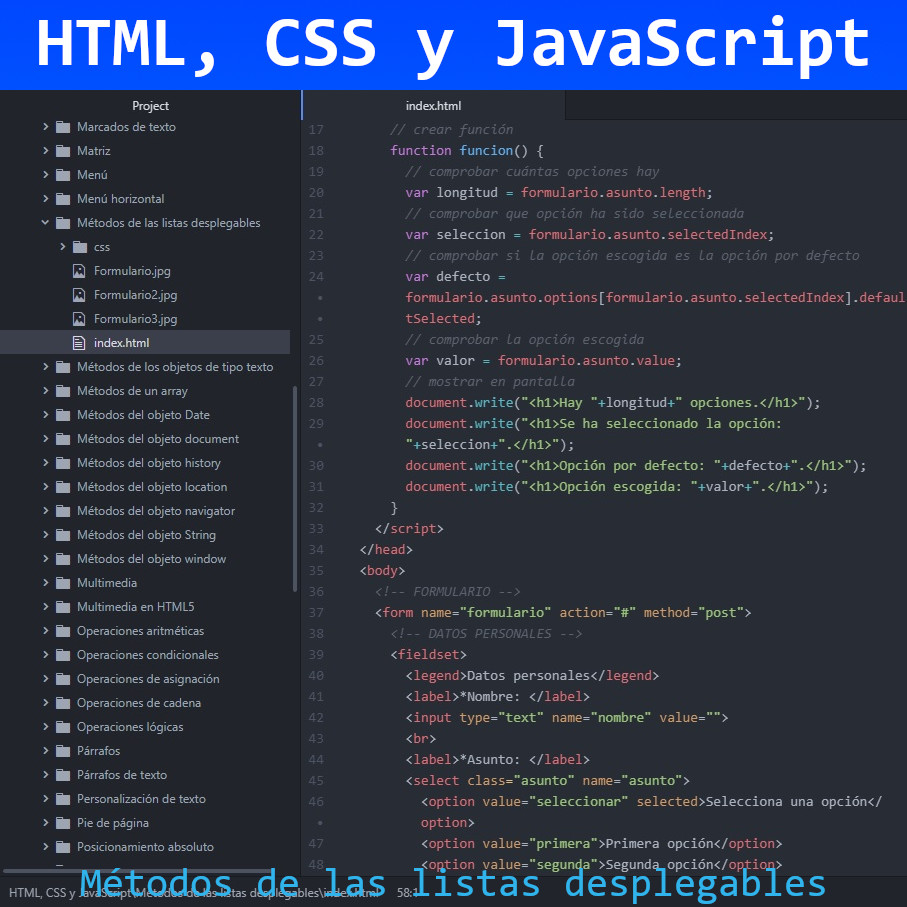
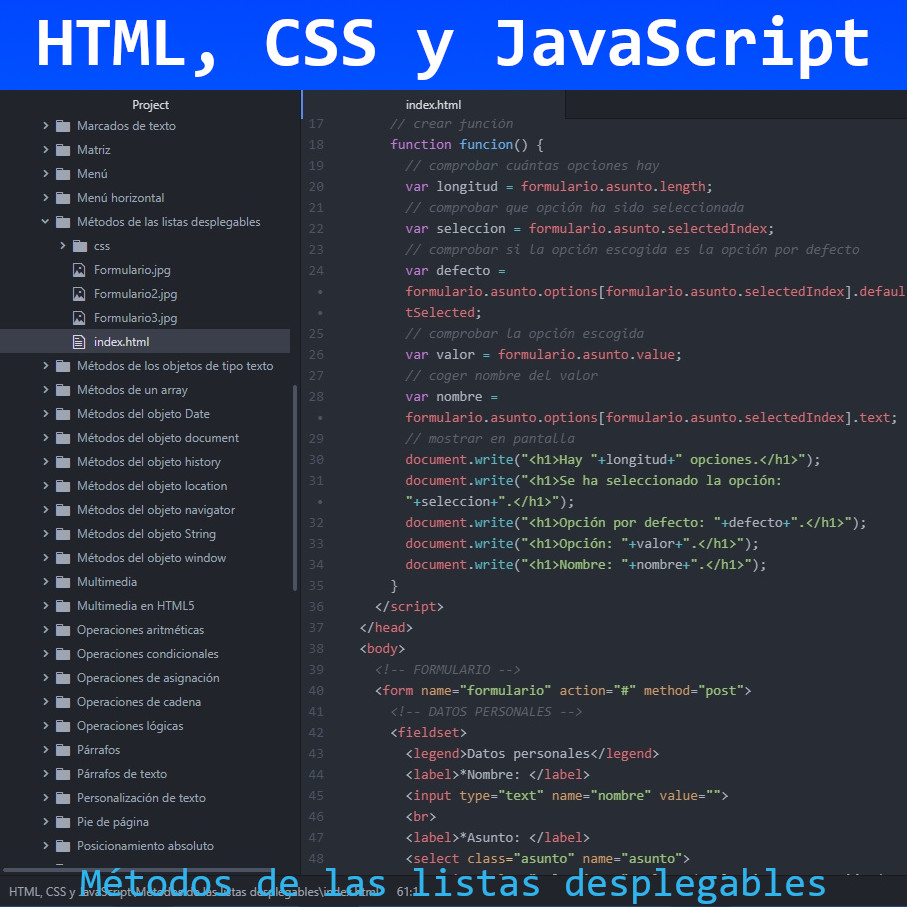
Métodos de las listas desplegables
Métodos de las listas desplegables en JavaScript

diff --git a/HTML, CSS y JavaScript/Métodos de las listas desplegables/index.html b/HTML, CSS y JavaScript/Métodos de las listas desplegables/index.html
@@ -24,11 +24,14 @@
         var defecto = formulario.asunto.options[formulario.asunto.selectedIndex].defaultSelected;
         // comprobar la opción escogida
         var valor = formulario.asunto.value;
+        // coger nombre del valor
+        var nombre = formulario.asunto.options[formulario.asunto.selectedIndex].text;
         // mostrar en pantalla
         document.write("<h1>Hay "+longitud+" opciones.</h1>");
         document.write("<h1>Se ha seleccionado la opción: "+seleccion+".</h1>");
         document.write("<h1>Opción por defecto: "+defecto+".</h1>");
-        document.write("<h1>Opción escogida: "+valor+".</h1>");
+        document.write("<h1>Opción: "+valor+".</h1>");
+        document.write("<h1>Nombre: "+nombre+".</h1>");
       }
     </script>
   </head>
